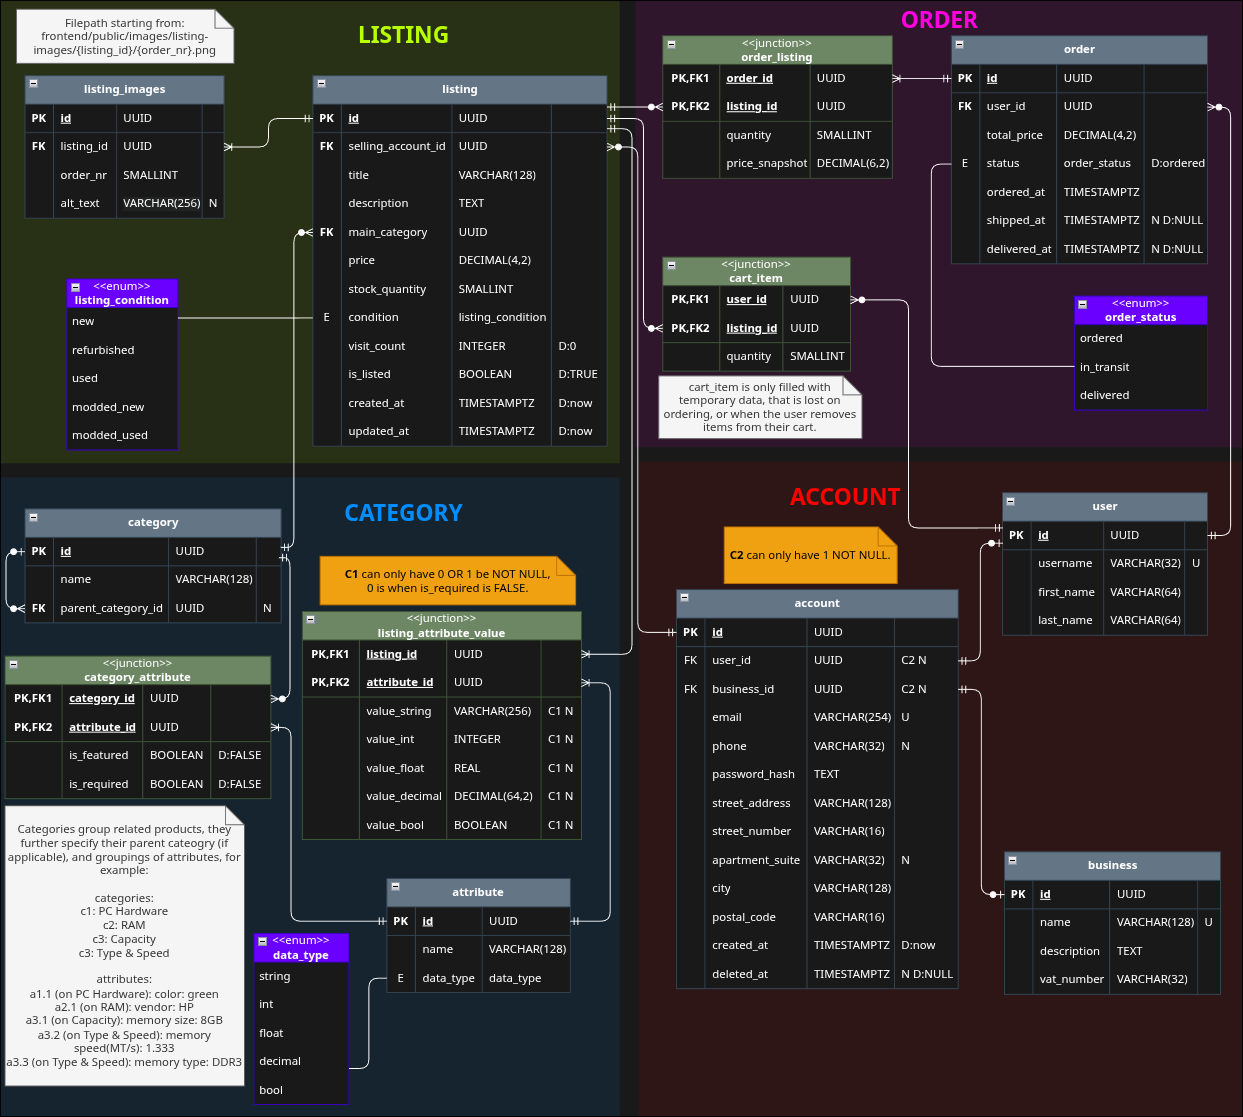
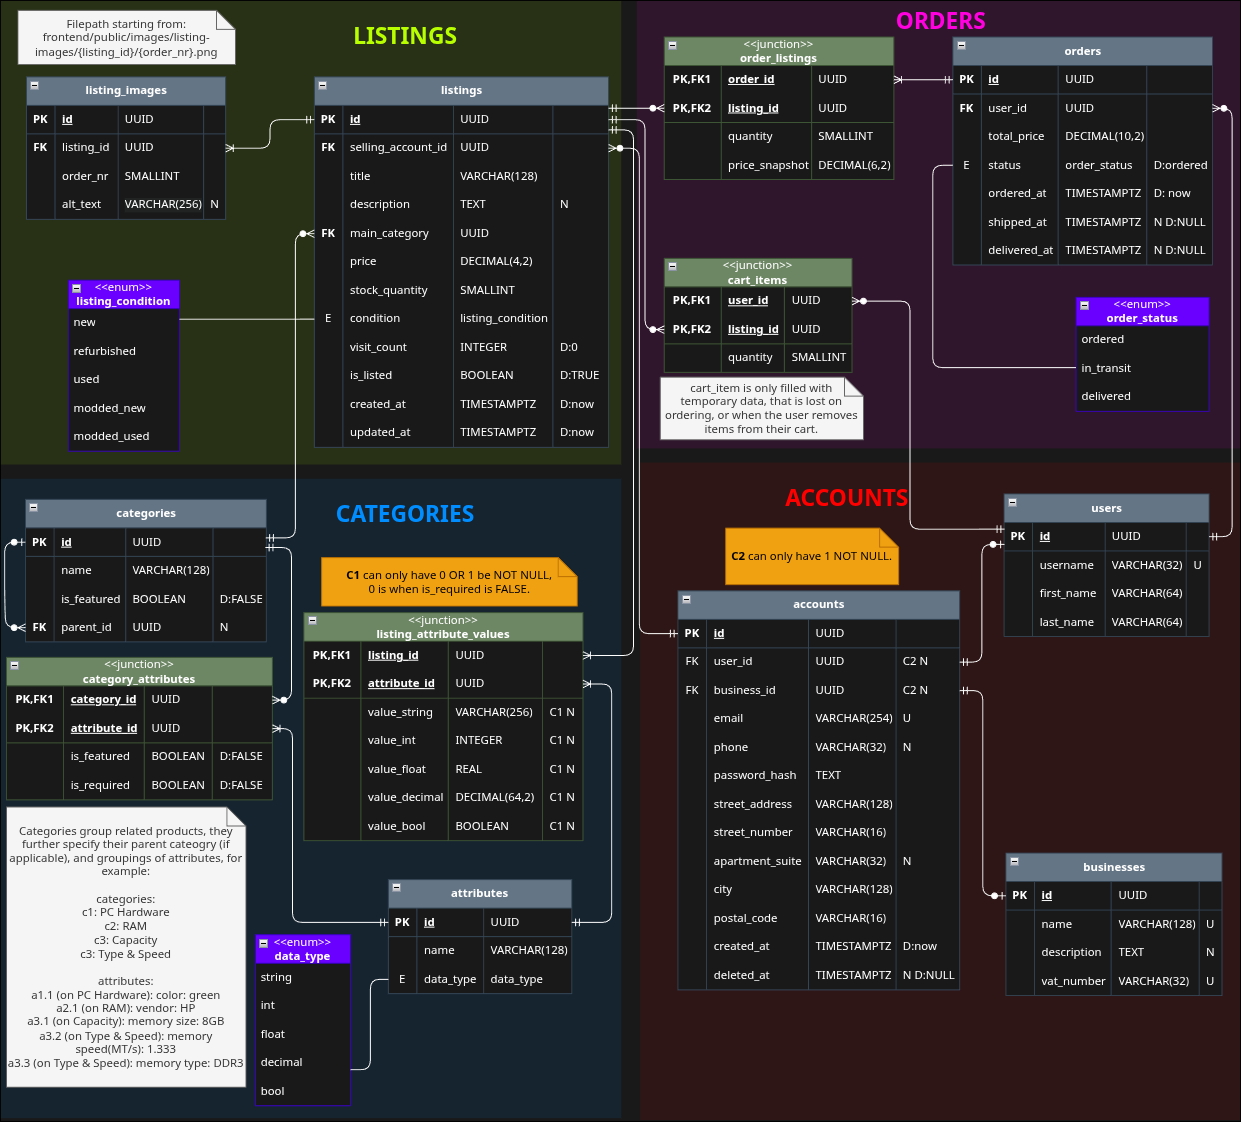
Introduces PG schema into drizzle definitions

diff --git a/backend/src/db/schema.ts b/backend/src/db/schema.ts
@@ -1,67 +1,169 @@
+import {sql} from 'drizzle-orm';
 import {
     pgTable,
+    pgEnum,
+    check,
     uuid,
     varchar,
     text,
     timestamp,
     boolean,
-    integer, type PgTableWithColumns,
+    integer,
+    smallint,
+    real,
+    type PgTableWithColumns,
+    type PgEnum, decimal
 } from 'drizzle-orm/pg-core';
 import {relations} from 'drizzle-orm';
 import {Relations} from 'drizzle-orm/relations';
 import {type BuildSchema, createInsertSchema, createSelectSchema} from 'drizzle-zod';
 
 // region TABLES
-// Define DB schema using Drizzle ORM's table definitions
+// DB schema using Drizzle ORM's table definitions, see /docs/ERD.png for ERD diagram.
+// Before every table entry is noted what ERD group they belong to within the diagram, enums after
+// Groups: ACCOUNTS, ORDERS, LISTINGS & CATEGORIES
 
+// Enums
+export const orderStatus: PgEnum<any> = pgEnum('order_status', ['ordered', 'in_transit', 'delivered']); // ORDER
+export const dataType: PgEnum<any> = pgEnum('order_status', ['string', 'int', 'float', 'decimal', 'bool']); // CATEGORIES
+export const listingCondition: PgEnum<any> = pgEnum('listing_condition', ['new', 'refurbished', 'used', 'modded_new', 'modded_used']); // LISTINGS
+
+// 🟥ACCOUNTS
 export const users: PgTableWithColumns<any> = pgTable('users', {
     id: uuid('id').primaryKey().defaultRandom(),
-    email: varchar('email', {length: 255}).notNull().unique(),
     username: varchar('username', {length: 32}).notNull().unique(),
-    password: varchar('password', {length: 255}).notNull(),
-    firstName: varchar('first_name', {length: 50}),
-    lastName: varchar('last_name', {length: 50}),
-    createdAt: timestamp('created_at').defaultNow().notNull(),
-    updatedAt: timestamp().defaultNow().notNull()
+    firstName: varchar('first_name', {length: 64}).notNull(),
+    lastName: varchar('last_name', {length: 64}).notNull()
 });
 
-export const habits: PgTableWithColumns<any> = pgTable('habits', {
+// 🟥ACCOUNTS
+export const businesses: PgTableWithColumns<any> = pgTable('businesses', {
     id: uuid('id').primaryKey().defaultRandom(),
-    userId: uuid('user_id').references(() => users.id, {onDelete: 'cascade'}).notNull(),
+    name: varchar('name', {length: 128}).notNull().unique(),
+    description: text('description'),
+    vatNumber: varchar('vat_number', {length: 32}).notNull().unique()
+});
+
+// 🟥ACCOUNTS | C2 can only have 1 NOT NULL
+// @formatter:off
+export const accounts: PgTableWithColumns<any> = pgTable('accounts', {
+    id: uuid('id').primaryKey().defaultRandom(),
+    userId: uuid('user_id').notNull().references(() => users.id, {onDelete: 'cascade'}),
+    businessId: uuid('business_id').notNull().references(() => businesses.id, {onDelete: 'cascade'}),
+    email: varchar('email', {length: 254}).notNull().unique(),
+    phone: varchar('phone', {length: 15}),
+    passwordHash: text('password_hash').notNull(),
+    streetAddress: varchar('street_address', {length: 128}).notNull(),
+    streetNumber: varchar('street_number', {length: 16}).notNull(),
+    apartmentSuite: varchar('apartment_suite', {length: 32}),
+    city: varchar('city', {length: 128}).notNull(),
+    postalCode: varchar('postal_code', {length: 16}).notNull(),
+    createdAt: timestamp('created_at').defaultNow().notNull(),
+    deletedAt: timestamp('deleted_at').default(null)
+}, (table) => [check('account_unique_owner_check', sql`
+    (${table.userId} IS NOT NULL AND ${table.businessId} IS NULL) OR 
+    (${table.userId} IS NULL AND ${table.businessId} IS NOT NULL)
+    `)
+]);
+// @formatter:on
+
+// 🟦CATEGORIES
+export const categories: PgTableWithColumns<any> = pgTable('categories', {
+    id: uuid('id').primaryKey().defaultRandom(),
     name: varchar('name', {length: 128}).notNull(),
-    description: text('description').notNull(),
-    frequency: varchar('frequency', {length: 20}).notNull(), // TODO: Replace with enum (daily, weekly, etc.)
-    targetCount: integer('target_count').default(1),
-    isActive: boolean('is_active').default(true).notNull(),
-    createdAt: timestamp('created_at').defaultNow().notNull(),
-    updatedAt: timestamp().defaultNow().notNull()
+    isFeatured: boolean('is_featured').notNull().default(false),
+    parentId: uuid('parent_id').references(() => categories.id, {onDelete: 'cascade'})
 });
 
-export const entries: PgTableWithColumns<any> = pgTable('entries', {
+// 🟦CATEGORIES
+export const attributes: PgTableWithColumns<any> = pgTable('attributes', {
     id: uuid('id').primaryKey().defaultRandom(),
-    habitId: uuid('habit_id').references(() => habits.id, {onDelete: 'cascade'}).notNull(),
-    completionDate: timestamp('completion_date').defaultNow().notNull(),
-    note: text('note'),
-    createdAt: timestamp('created_at').defaultNow().notNull()
+    name: varchar('name', {length: 128}).notNull(),
+    dataType: dataType('data_type').notNull()
 });
 
-export const tags: PgTableWithColumns<any> = pgTable('tags', {
-    id: uuid('id').primaryKey().defaultRandom(),
-    name: varchar('name', {length: 64}).notNull(),
-    color: varchar('color', {length: 7}).default('#6b7280'),
-    createdAt: timestamp('created_at').defaultNow().notNull(),
-    updatedAt: timestamp().defaultNow().notNull()
+// 🟦CATEGORIES, junction
+export const categoryAttributes: PgTableWithColumns<any> = pgTable('category_attributes', {
+    categoryId: uuid('category_id').primaryKey().references(() => categories.id, {onDelete: 'cascade'}),
+    attributeId: uuid('attribute_id').primaryKey().references(() => attributes.id, {onDelete: 'cascade'}),
+    isFeatured: boolean('is_featured').notNull().default(false),
+    isRequired: boolean('is_required').notNull().default(false)
 });
 
-export const habitTags: PgTableWithColumns<any> = pgTable('habitTags', {
+// 🟪ORDERS
+export const orders: PgTableWithColumns<any> = pgTable('orders', {
     id: uuid('id').primaryKey().defaultRandom(),
-    habitId: uuid('habit_id').references(() => habits.id, {onDelete: 'cascade'}).notNull(),
-    tagId: uuid('tag_id').references(() => tags.id, {onDelete: 'cascade'}).notNull(),
-    createdAt: timestamp('created_at').defaultNow().notNull()
+    userId: uuid('user_id').notNull().references(() => users.id, {onDelete: 'cascade'}),
+    totalPrice: decimal('total_price', {precision: 6, scale: 2}).notNull(),
+    status: orderStatus('status').notNull().default('ordered'),
+    orderedAt: timestamp().defaultNow().notNull(),
+    shippedAt: timestamp().default(null),
+    deliveredAt: timestamp().default(null)
+});
+
+// 🟩LISTINGS
+export const listings: PgTableWithColumns<any> = pgTable('listings', {
+    id: uuid('id').primaryKey().defaultRandom(),
+    sellingAccountId: uuid('selling_account_id').notNull().references(() => accounts.id, {onDelete: 'cascade'}),
+    title: varchar('title', {length: 128}).notNull(),
+    description: text('description'),
+    mainCategory: uuid('main_category').notNull().references(() => categories.id, {onDelete: 'cascade'}),
+    price: decimal('price', {precision: 4, scale: 2}).notNull(),
+    stockQuantity: smallint().notNull(),
+    condition: listingCondition('condition').notNull(),
+    visitCount: integer('visit_count').notNull().default(0),
+    isListed: boolean('is_listed').notNull().default(true),
+    createdAt: timestamp('created_at').notNull().defaultNow(),
+    updatedAt: timestamp('updated_at').default(null)
+});
+
+// 🟩LISTINGS
+export const listingImages: PgTableWithColumns<any> = pgTable('listing_images', {
+    id: uuid('id').primaryKey().defaultRandom(),
+    listingId: uuid('listing_id').notNull().references(() => listings.id, {onDelete: 'cascade'}),
+    orderNr: smallint('order_nr').notNull(),
+    altText: varchar('alt_text', {length: 256}).notNull()
+});
+
+
+// 🟦CATEGORIES, junction | C1 can only have 0 OR 1 be NOT NULL, 0 is when is_required is FALSE
+// @formatter:off
+// TODO: Maybe change valueFloat being stored as a "real" to decimal
+export const listingAttributeValues: PgTableWithColumns<any> = pgTable('listing_attribute_values', {
+    listingId: uuid('listing_id').primaryKey().references(() => listings.id, {onDelete: 'cascade'}),
+    attributeId: uuid('attribute_id').primaryKey().references(() => attributes.id, {onDelete: 'cascade'}),
+    valueString: varchar('value_string', {length: 256}),
+    valueInt: integer('value_int'),
+    valueFloat: real('value_float'),
+    valueDecimal: decimal('value_decimal', {precision: 64, scale: 2}),
+    valueBool: boolean('value_bool')
+}, (table) => [check('account_unique_owner_check', sql`
+    (${table.valueString} IS NOT NULL)::int +
+    (${table.valueInt} IS NOT NULL)::int +
+    (${table.valueFloat} IS NOT NULL)::int +
+    (${table.valueDecimal} IS NOT NULL)::int +
+    (${table.valueBool} IS NOT NULL)::int <= 1
+    `)
+]);
+// @formatter:on
+
+// 🟪ORDERS, junction
+export const orderListings: PgTableWithColumns<any> = pgTable('order_listings', {
+    orderId: uuid('order_id').primaryKey().references(() => orders.id, {onDelete: 'cascade'}),
+    listingId: uuid('listing_id').primaryKey().references(() => listings.id, {onDelete: 'cascade'}),
+    quantity: smallint('quantity').notNull(),
+    priceSnapshot: decimal('price_snapshot', {precision: 64, scale: 2}).notNull()
+});
+
+// 🟪ORDERS, junction
+export const cartItems: PgTableWithColumns<any> = pgTable('cart_ttems', {
+    userId: uuid('user_id').primaryKey().references(() => users.id, {onDelete: 'cascade'}),
+    listingId: uuid('listing_id').primaryKey().references(() => listings.id, {onDelete: 'cascade'}),
+    quantity: smallint('quantity').notNull()
 });
 // endregion TABLES
 
-// TODO: Add unique to tags, but for compound of userId + name, so that different users can have same tag names
+
 
 // region RELATIONS
 // Define table relations using Drizzle's relations() API.
